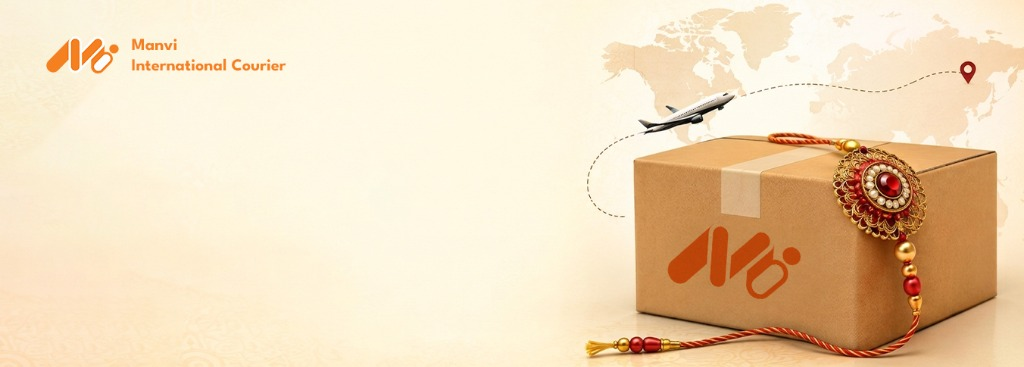
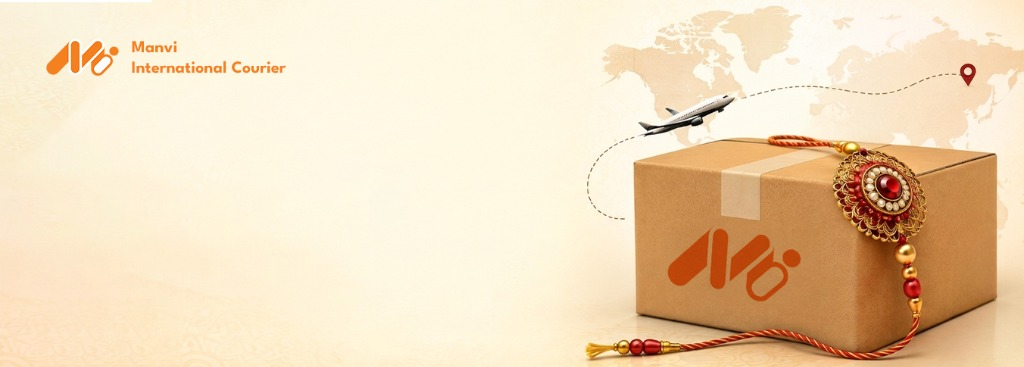
update

diff --git a/src/components/CampaignPage.tsx b/src/components/CampaignPage.tsx
@@ -1326,7 +1326,8 @@ export default function CampaignPage() {
             alt="Manvi International Courier"
             fill
             sizes="100vw"
-            className="hidden sm:block object-contain object-center"
+            quality={100}
+            className="hidden sm:block object-cover sm:object-contain object-center"
             priority
           />
           {/* Mobile Banner (Textless Image Background) */}
@@ -1335,6 +1336,7 @@ export default function CampaignPage() {
             alt="Manvi International Courier Mobile"
             fill
             sizes="100vw"
+            quality={100}
             className="block sm:hidden object-cover object-center"
             priority
           />
